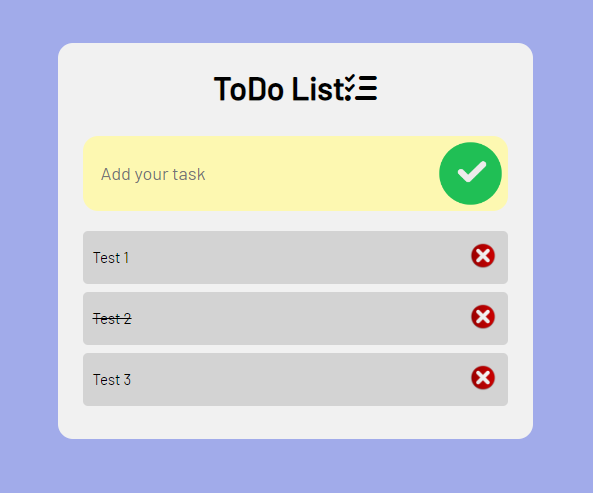
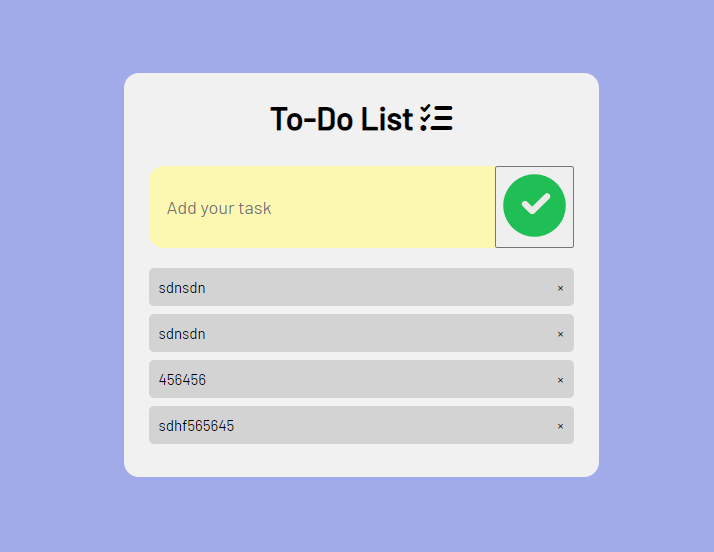
Add some code for better functionality

diff --git a/assets/js/script.js b/assets/js/script.js
@@ -1,37 +1,37 @@
-const todoValue = document.getElementById("todoText"),
-    listItems = document.getElementById("list-items"),
-    addUpdateClick = document.getElementById("AddUpdateClick");
+const inputBox = document.getElementById("input-box");
+const listContainer = document.getElementById("list-container");
 
-    todoValue.addEventListener("keypress", function (e) {
-        if (e.key === "Enter") {
-            addUpdateClick.click();
-        }
-    });
-
-function CreateToDoData() {
-    if (todoValue.value === "") {
+function addTask(){
+    if(inputBox.value === ''){
         alert("Your task is empty!");
-        todoValue.focus();
     }
-
-    let li = document.createElement("li");
-    const todoItems = `<div ondblclick="CompleteTodoItem(this)">${todoValue.value}</div><div><img class="delete todo-controls" onclick="DeleteToDoItems(this)" src="assets/images/delete-tasks.png"></div>`;
-
-    li.innerHTML = todoItems;
-    listItems.appendChild(li);
-    todoValue.value = "";
+    else{
+        let li = document.createElement("li");
+        li.innerHTML = inputBox.value;
+        listContainer.appendChild(li);
+        let span = document.createElement("span");
+        span.innerHTML = "\u00d7";
+        li.appendChild(span);
+    }
+    inputBox.value = "";
+    saveData();
 }
 
-function CompleteTodoItem(e) {
-    console.log(e.parentElement);
-    if (e.parentElement.querySelector("div").style.textDecoration === "") {
-        e.parentElement.querySelector("div").style.textDecoration = "line-through";
+listContainer.addEventListener("click", function(e){
+    if(e.target.tagName === "LI"){
+        e.target.classList.toggle("checked");
+        saveData();
     }
-}
+    else if(e.target.tagName === "SPAN"){
+        e.target.parentElement.remove();
+        saveData();
+    }
+}, false);
 
-function DeleteToDoItems(e) {
-    let deleteValue = e.parentElement.parentElement.querySelector("div").innerText;
-    if(confirm('Do you want to delete this task?')) {
-        e.parentElement.parentElement.parentElement.querySelector("li").remove();
-    }
+function saveData(){
+    localStorage.setItem("data", listContainer.innerHTML);
 }
+function showTask(){
+    listContainer.innerHTML = localStorage.getItem("data");
+}
+showTask();

diff --git a/index.html b/index.html
@@ -24,13 +24,13 @@
 <body>
     <div class="container">
         <div class="todo-header">
-            <h1>ToDo List<i class="fa-solid fa-list-check"></i></h1>
+            <h1>To-Do List <i class="fa-solid fa-list-check"></i></h1>
         </div>
         <div class="todo-body">
-            <input type="text" id="todoText" class="todo-input" placeholder="Add your task">
-            <img src="assets/images/to-do-body-img.png" alt="+" id="AddUpdateClick" onclick="CreateToDoData()">
+            <input type="text" id="input-box" placeholder="Add your task">
+            <button onclick="addTask()"><img src="assets/images/to-do-body-img.png" alt="+"></button>
         </div>
-        <ul id="list-items" class="list-items"></ul>
+        <ul id="list-container"></ul>
     </div>
     <script src="assets/js/script.js"></script>
 </body>

diff --git a/assets/style/style.css b/assets/style/style.css
@@ -49,6 +49,7 @@ body {
     cursor: pointer;
     height: 75px;
     width: 75px;
+    background-color: transparent;
 }
 
 ul li {

diff --git a/README.md b/README.md
@@ -10,22 +10,22 @@ The ToDo list App can be used for shopping lists, home work wich need to be done
 ### Main features
 - Add new tasks
 - Delete tasks
-- Mark complete tasks
-- Delete completed tasks
 
 ![Header](https://github.com/Yups11/to-do-list-project/blob/main/media/readme-photo2.png)
 
 ### Extra features
 - Alert when the added task is empty
-- Alert when task is deleted
 
 ![Header](https://github.com/Yups11/to-do-list-project/blob/main/media/readme-photo3.png)
 
-![Header](https://github.com/Yups11/to-do-list-project/blob/main/media/readme-photo4.png)
-
 ## Testing
 
-The website was tested how will look on different devices from small smarthphones to large desktops. Main page(Add, delete and coomplete tasks) was tested manualy.
+The website was tested how will look on different devices from small smarthphones to large desktops. Main page(Add, delete) was tested manualy.
+
+### Fixed Bugs
+- Local storage set up
+- User can't add empty task
+- User can delete specific task(not one by one)
 
 ### Validator Testing
 
@@ -67,5 +67,4 @@ I make desing and code this website from myself idea.
 - Add function for editing tasks
 - Add function to set tasks as important or less important
 - Add calendar and dates to set when the tasks to be completed
-- Add local storage
 - Add different users
